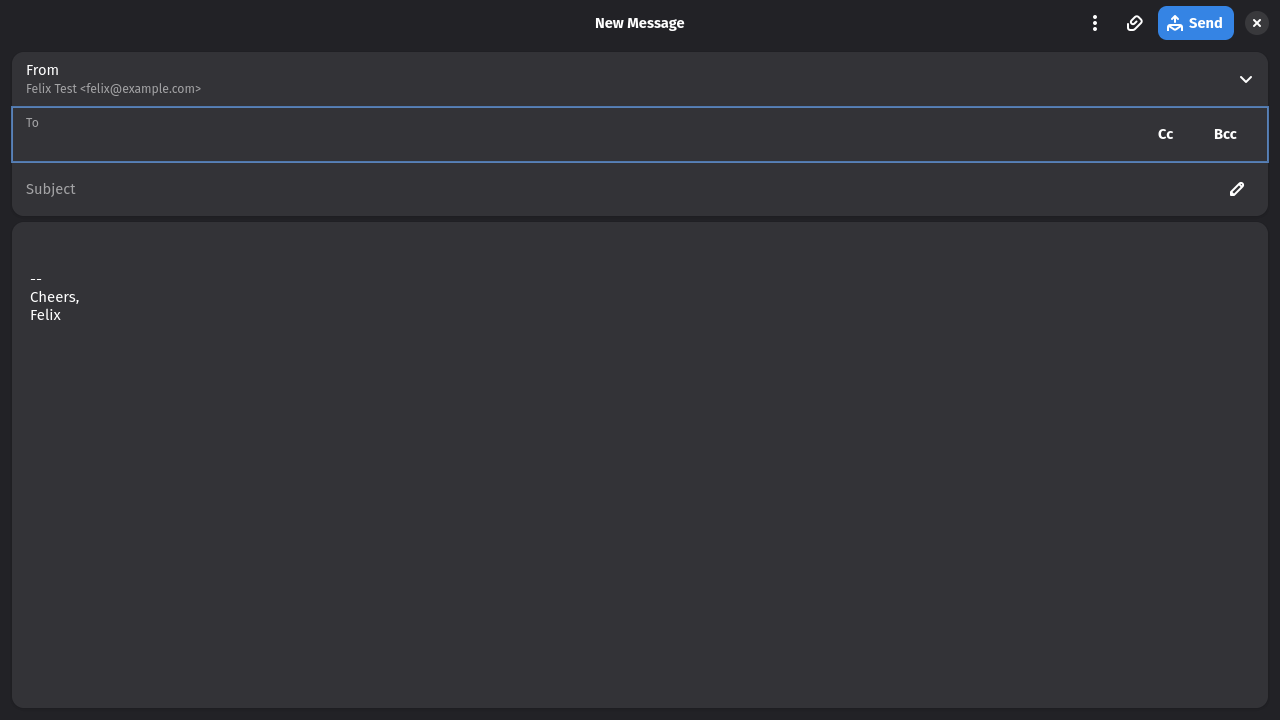
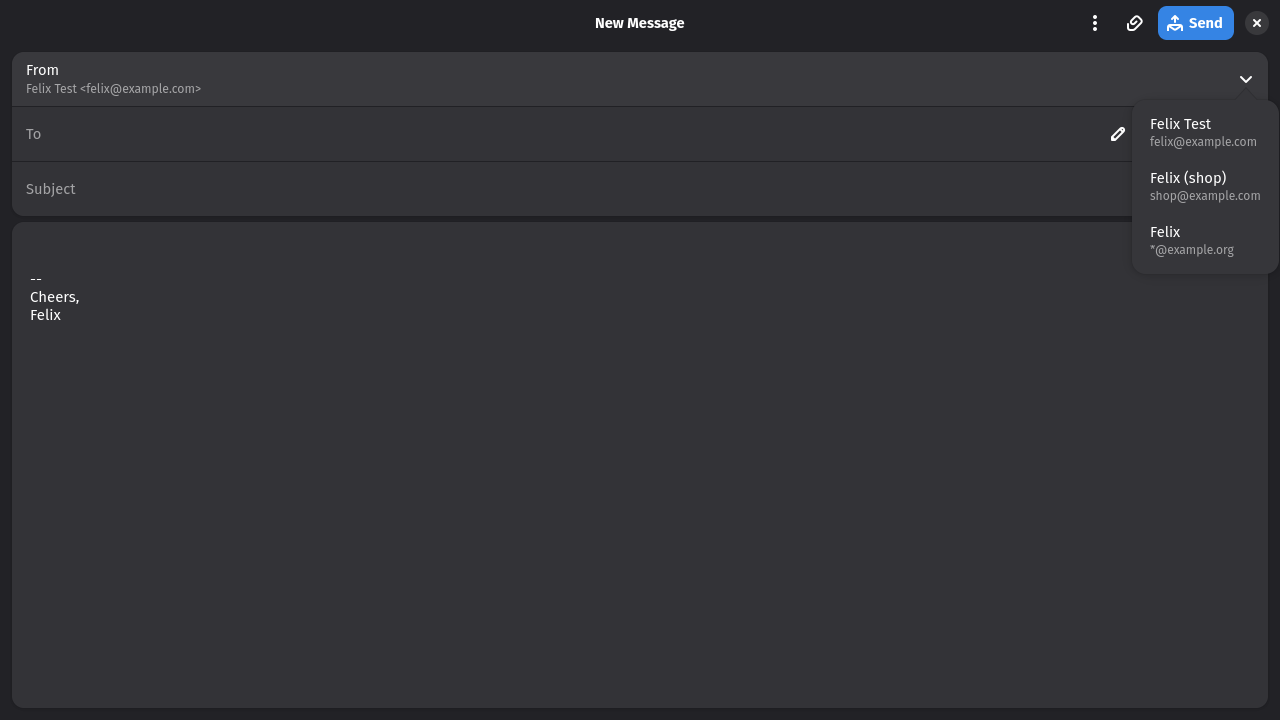
Screenshot tour: GIF walkthrough, gallery page, refreshed captures
Eleven screenshots and a six-frame GIF, all from the fake account in the
headless cage at 1280x720.  The README shows the GIF plus two stills and
links to docs/TOUR.md, which walks through reading, grouping and bulk
actions, search, compose, identities, Masked Email and preferences.

Changed region(s): [[0.875, 0.1528, 1.0, 0.275], [0.9062, 0.3056, 0.9688, 0.3667], [0.0, 0.1528, 0.0312, 0.1833]]

diff --git a/docs/TOUR.md b/docs/TOUR.md
@@ -1,0 +1,76 @@
+# Den Mail tour
+
+Every picture here comes from the fake account the test suite uses
+(`tests/fake_server.py`), captured headlessly at 1280×720 in the dark theme.
+Real accounts look the same, with your own mail in it.
+
+![Walkthrough: inbox, group by sender, fold, select, search, compose](../data/screenshots/tour.gif)
+
+## Reading mail
+
+Three panes: folders and labels, the conversation list, the open conversation.
+Labels show as chips on each row and in the conversation header; removing the
+Inbox chip archives. Newsletters get an **Unsubscribe** button, and remote
+images stay blocked until you allow them for that message or trust the sender.
+
+![The inbox with a newsletter open](../data/screenshots/inbox-dark.png)
+
+The light theme, same view. Dark mode adapts light-coloured HTML mail; the sun
+button in the message header switches a message back to its original colours.
+
+![The inbox in the light theme](../data/screenshots/inbox-light.png)
+
+## Grouping and bulk actions
+
+**Group by sender** (or by organisation, which merges `lippu.vr.fi` and
+`tili.vr.fi`) works on top of any sort order. Each sender is a row: click it
+to select the whole group, use the arrow to fold it, and the button in the
+header folds or unfolds everything.
+
+![The list grouped by sender, two groups folded](../data/screenshots/group-sender.png)
+
+The **Select** button turns on checkboxes and a bar with the bulk actions.
+Outside that mode, Ctrl-click and Shift-click extend the selection as usual.
+
+![Selection mode with three conversations checked](../data/screenshots/selection.png)
+
+Labels and folders are one click away from the toolbar, the right-click menu,
+or the `l` and `v` keys. Everything can be undone from the toast.
+
+| Labels popover | Context menu |
+| --- | --- |
+| ![Labels popover](../data/screenshots/labels.png) | ![Right-click menu on a conversation](../data/screenshots/context-menu.png) |
+
+## Search
+
+The search box understands `from:`, `to:`, `subject:`, `is:unread`,
+`is:flagged`, `has:attachment`, `before:` and `after:`, scoped to the current
+folder or to all mail. With the scope set to all mail and no query, the list
+shows the whole account, which is where grouping by sender is most useful.
+
+![Search for has:attachment](../data/screenshots/search.png)
+
+## Writing mail
+
+The From field lists your starred identities first; "Show all identities…"
+expands to every alias and wildcard address in the account.
+
+![New message with the From list open](../data/screenshots/compose.png)
+
+## Identities and Masked Email
+
+The identities dialog is where you star the aliases you actually send from.
+Masked Email addresses can be created, described, disabled and deleted.
+
+| Identities & aliases | Masked Email |
+| --- | --- |
+| ![Identities dialog](../data/screenshots/identities.png) | ![Masked Email dialog](../data/screenshots/masked.png) |
+
+## Preferences
+
+![Preferences](../data/screenshots/preferences.png)
+
+## Making these
+
+`docs/DEVELOPMENT.md` explains the autopilot and the headless cage session
+used to produce these captures without touching the desktop.

diff --git a/README.md b/README.md
@@ -7,7 +7,7 @@ A native Fastmail client for the GNOME desktop: GTK4, libadwaita and JMAP.
 Three panes, labels that nest, push updates, offline reading, and every alias
 you own in the From field.
 
-![The inbox with a conversation open, dark theme](data/screenshots/inbox-dark.png)
+![Walkthrough: inbox, group by sender, fold, select, search, compose](data/screenshots/tour.gif)
 
 > [!NOTE]
 > **This app was written mostly by an AI.** Nearly all of the code was produced
@@ -35,9 +35,12 @@ you own in the From field.
   (`from:` `to:` `subject:` `is:unread` `has:attachment` `before:` `after:`),
   notifications with the sender's logo, `mailto:` handling, keyboard shortcuts.
 
-| Light theme | Compose |
+| Group by sender | Selection mode |
 | --- | --- |
-| ![Inbox, light theme](data/screenshots/inbox-light.png) | ![New message window](data/screenshots/compose.png) |
+| ![The list grouped by sender](data/screenshots/group-sender.png) | ![Selection mode with the bulk action bar](data/screenshots/selection.png) |
+
+More screenshots, with the light theme, search, compose and the dialogs, are in
+the [tour](docs/TOUR.md).
 
 ## Install
 

diff --git a/docs/DEVELOPMENT.md b/docs/DEVELOPMENT.md
@@ -67,3 +67,10 @@ pipx run --spec "bandit[toml]==1.9.2" bandit -q -c pyproject.toml -r den_mail da
 
 Bandit findings that are false positives get a `# nosec Bxxx` on the line and
 a comment above saying why; Ruff's rule set is pinned in `pyproject.toml`.
+
+## Screenshots
+
+The images in `data/screenshots/` and `docs/TOUR.md` are made from the fake
+account in a headless cage session (see above): one autopilot script per
+picture, `grim` inside the session, and `magick` to assemble the GIF from a
+handful of frames. Regenerate them after UI changes so the tour stays honest.
